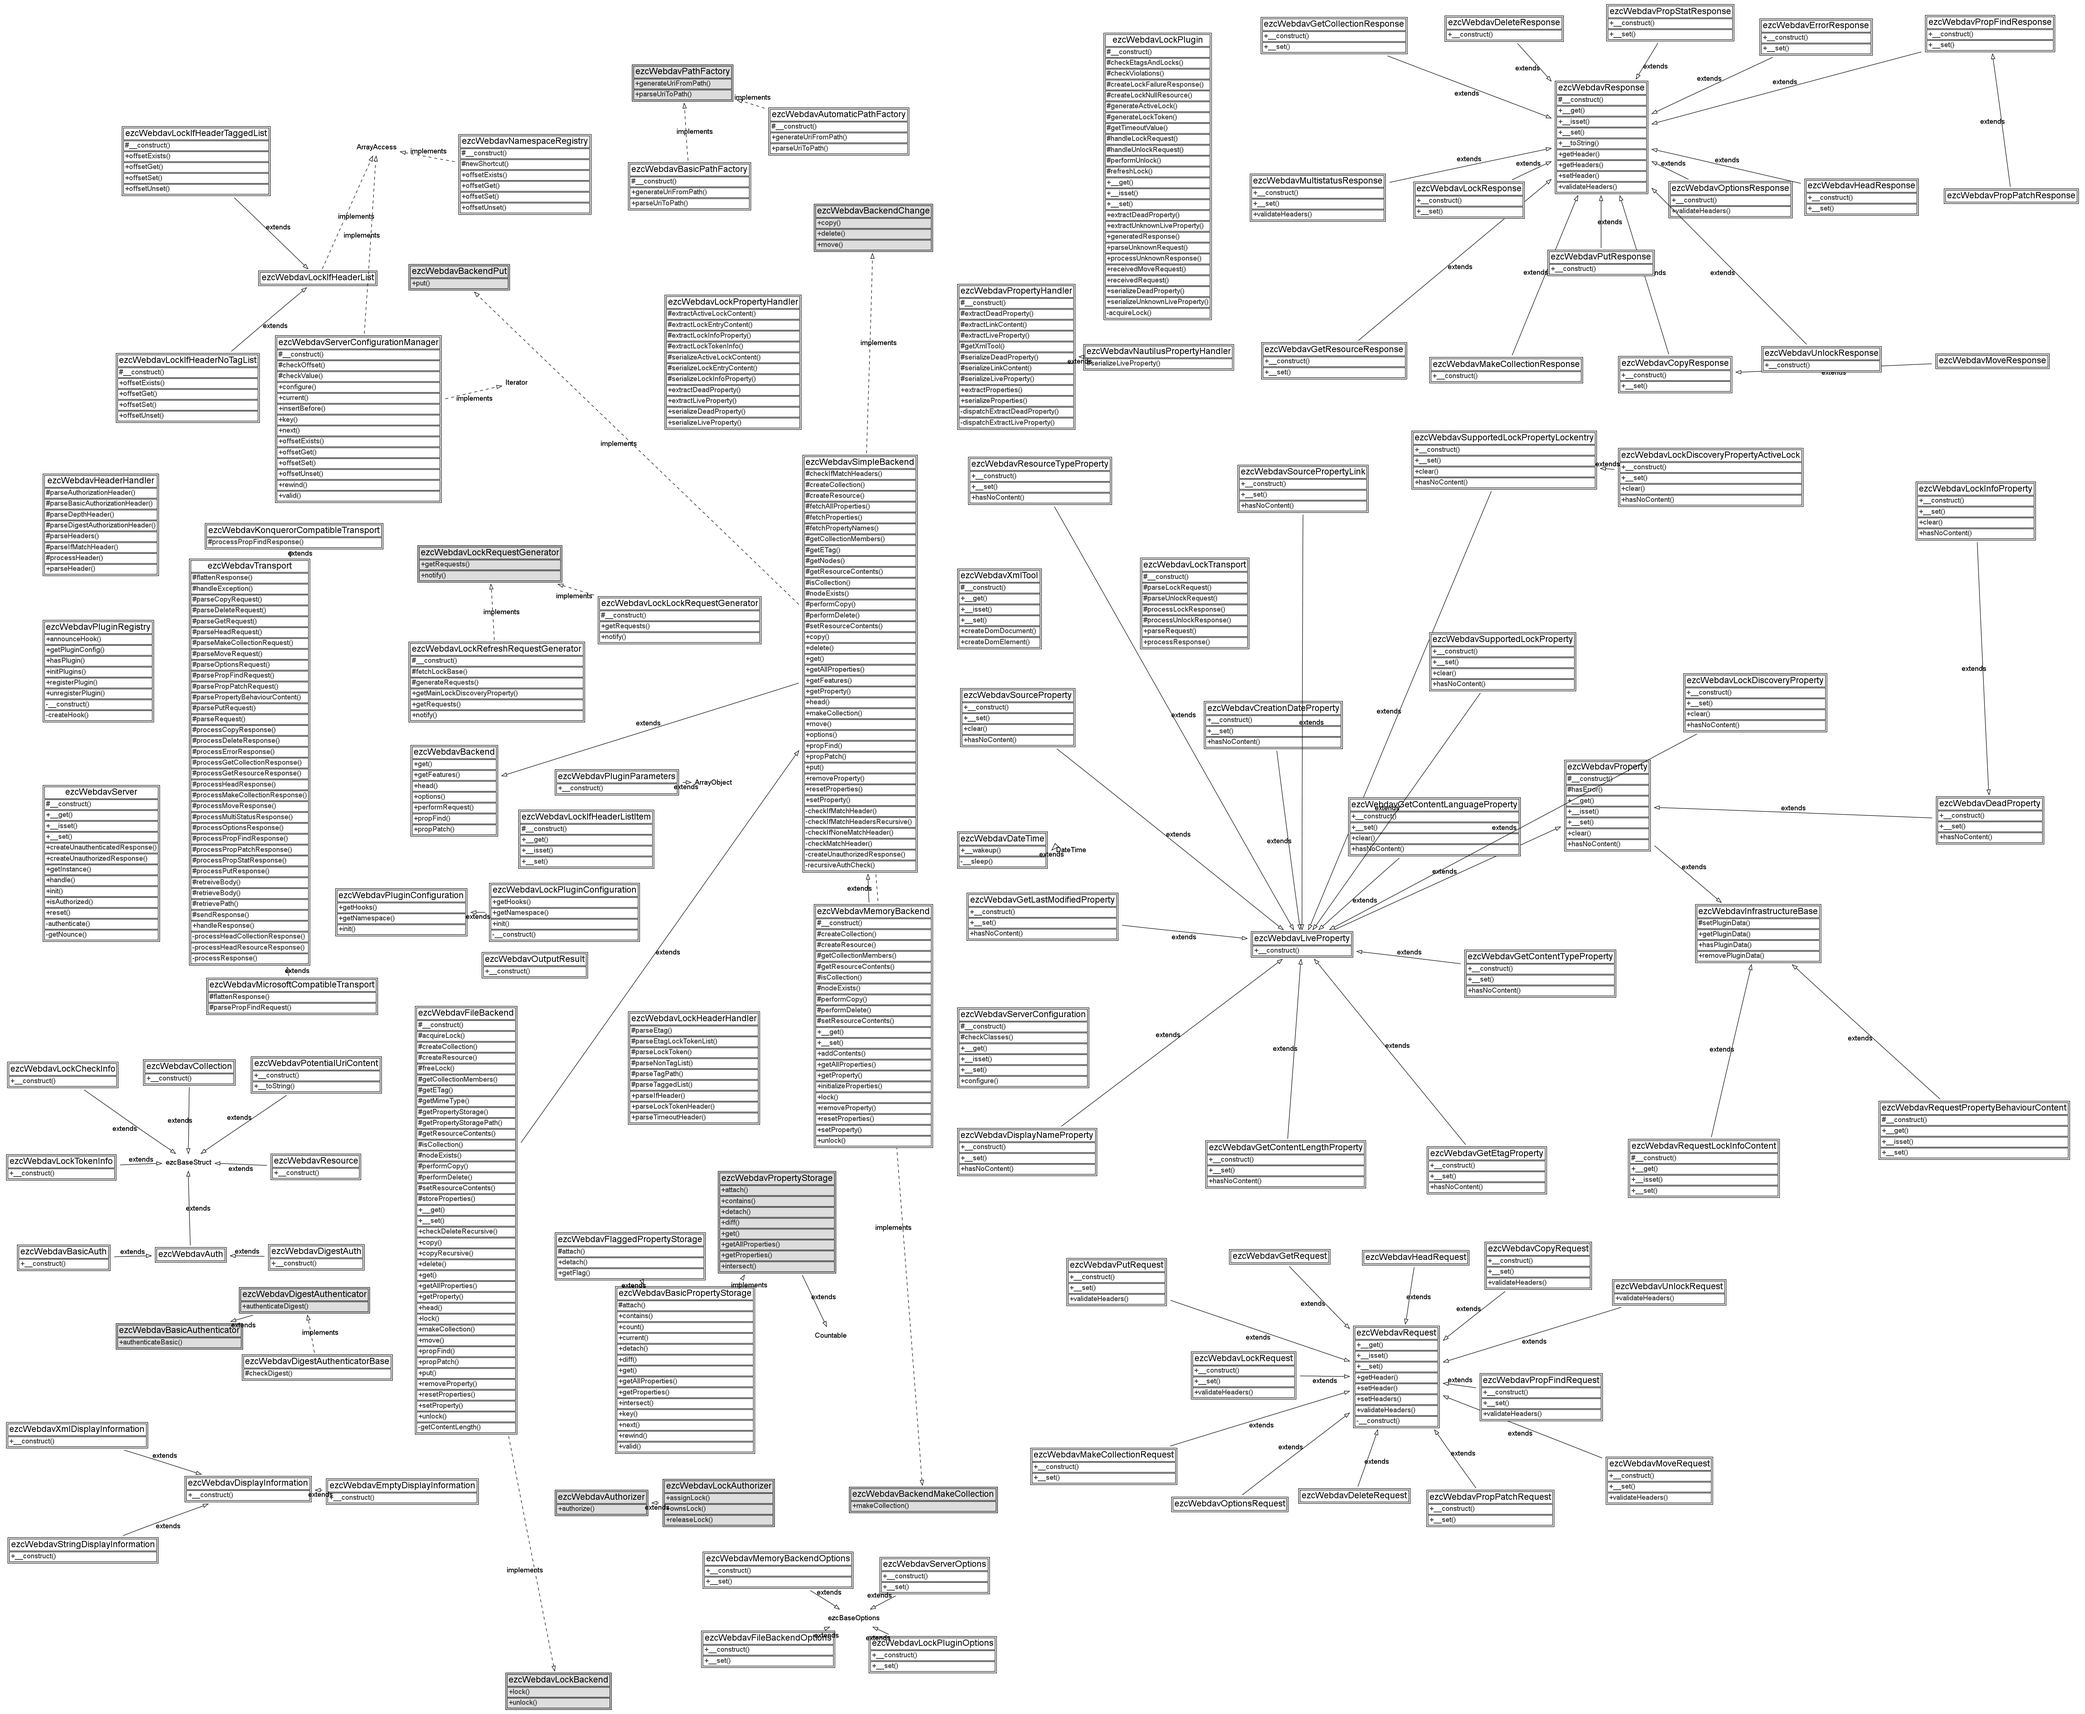
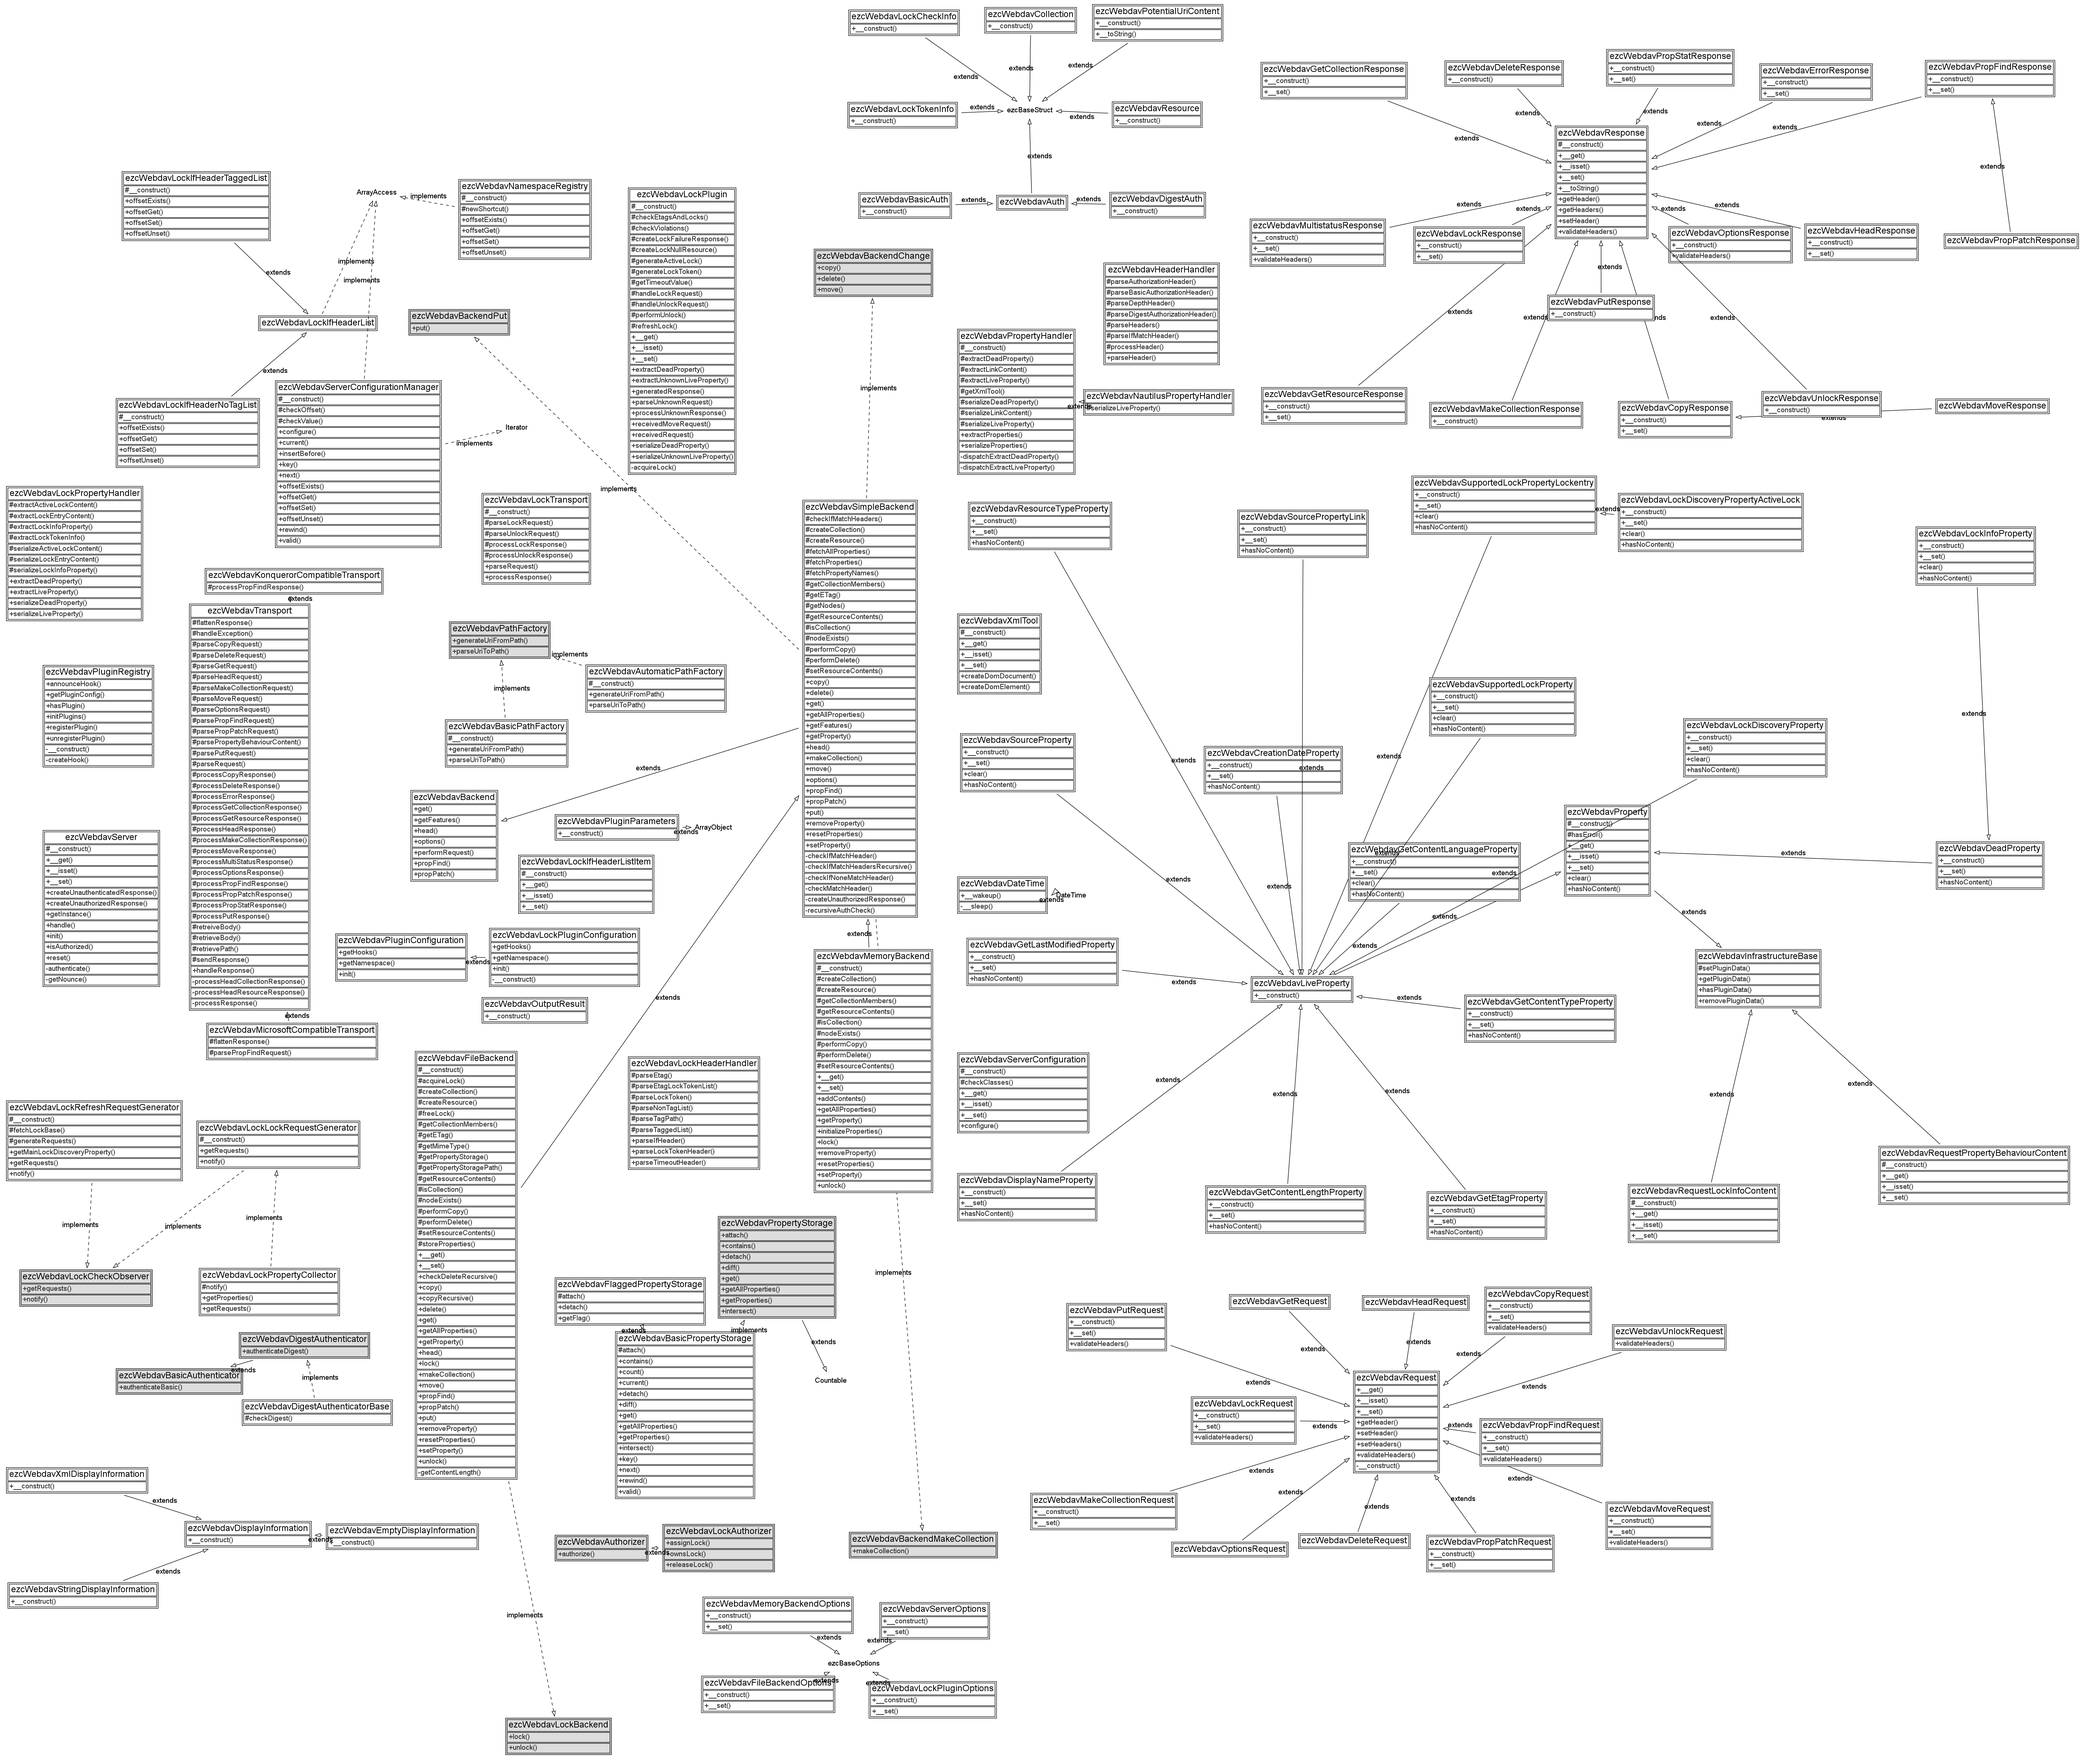
- Updated autoload and class diagram.
git-svn-id: https://svn.apache.org/repos/asf/incubator/zetacomponents/trunk@976517 13f79535-47bb-0310-9956-ffa450edef68

diff --git a/Webdav/src/webdav_autoload.php b/Webdav/src/webdav_autoload.php
@@ -36,6 +36,7 @@ return array(
     'ezcWebdavBackendPut'                             => 'Webdav/interfaces/backend/put.php',
     'ezcWebdavBasicAuthenticator'                     => 'Webdav/interfaces/basic_authenticator.php',
     'ezcWebdavLiveProperty'                           => 'Webdav/interfaces/property_live.php',
+    'ezcWebdavLockCheckObserver'                      => 'Webdav/plugins/lock/interfaces/request_generator.php',
     'ezcWebdavPropertyStorage'                        => 'Webdav/interfaces/property_storage.php',
     'ezcWebdavResponse'                               => 'Webdav/interfaces/response.php',
     'ezcWebdavAuth'                                   => 'Webdav/structs/auth.php',
@@ -47,7 +48,7 @@ return array(
     'ezcWebdavDisplayInformation'                     => 'Webdav/structs/display_information.php',
     'ezcWebdavLockBackend'                            => 'Webdav/plugins/lock/interfaces/lock_backend.php',
     'ezcWebdavLockIfHeaderList'                       => 'Webdav/plugins/lock/interfaces/if_header_list.php',
-    'ezcWebdavLockCheckObserver'                   => 'Webdav/plugins/lock/interfaces/request_generator.php',
+    'ezcWebdavLockLockRequestGenerator'               => 'Webdav/plugins/lock/request_generators/lock.php',
     'ezcWebdavPathFactory'                            => 'Webdav/interfaces/path_factory.php',
     'ezcWebdavPluginConfiguration'                    => 'Webdav/plugin_configuration.php',
     'ezcWebdavPropFindResponse'                       => 'Webdav/responses/propfind.php',
@@ -94,10 +95,10 @@ return array(
     'ezcWebdavLockIfHeaderNoTagList'                  => 'Webdav/plugins/lock/header/if_header_no_tag_list.php',
     'ezcWebdavLockIfHeaderTaggedList'                 => 'Webdav/plugins/lock/header/if_header_tagged_list.php',
     'ezcWebdavLockInfoProperty'                       => 'Webdav/plugins/lock/properties/lockinfo.php',
-    'ezcWebdavLockLockRequestGenerator'               => 'Webdav/plugins/lock/request_generators/lock.php',
     'ezcWebdavLockPlugin'                             => 'Webdav/plugins/lock/main.php',
     'ezcWebdavLockPluginConfiguration'                => 'Webdav/plugins/lock/config.php',
     'ezcWebdavLockPluginOptions'                      => 'Webdav/plugins/lock/options.php',
+    'ezcWebdavLockPropertyCollector'                  => 'Webdav/plugins/lock/request_generators/property_collector.php',
     'ezcWebdavLockPropertyHandler'                    => 'Webdav/plugins/lock/property_handler.php',
     'ezcWebdavLockRefreshRequestGenerator'            => 'Webdav/plugins/lock/request_generators/lock_refresh.php',
     'ezcWebdavLockRequest'                            => 'Webdav/requests/lock.php',
